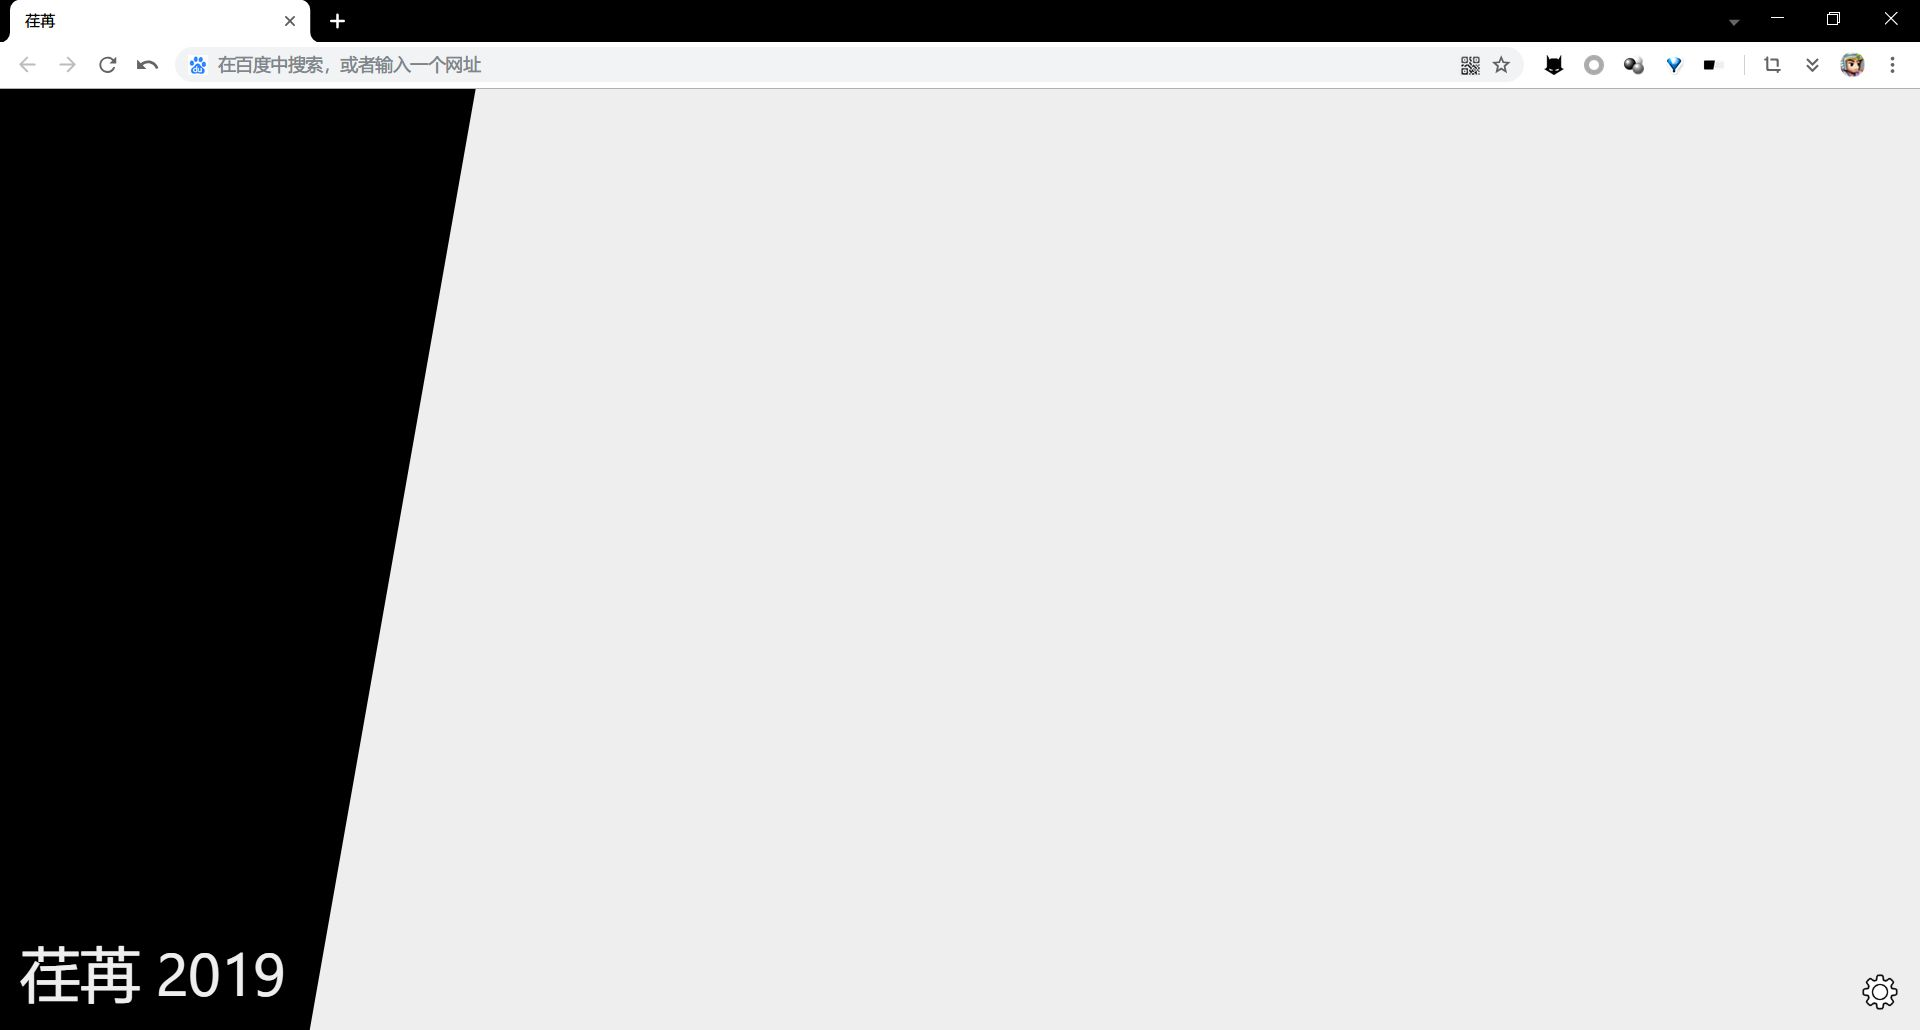
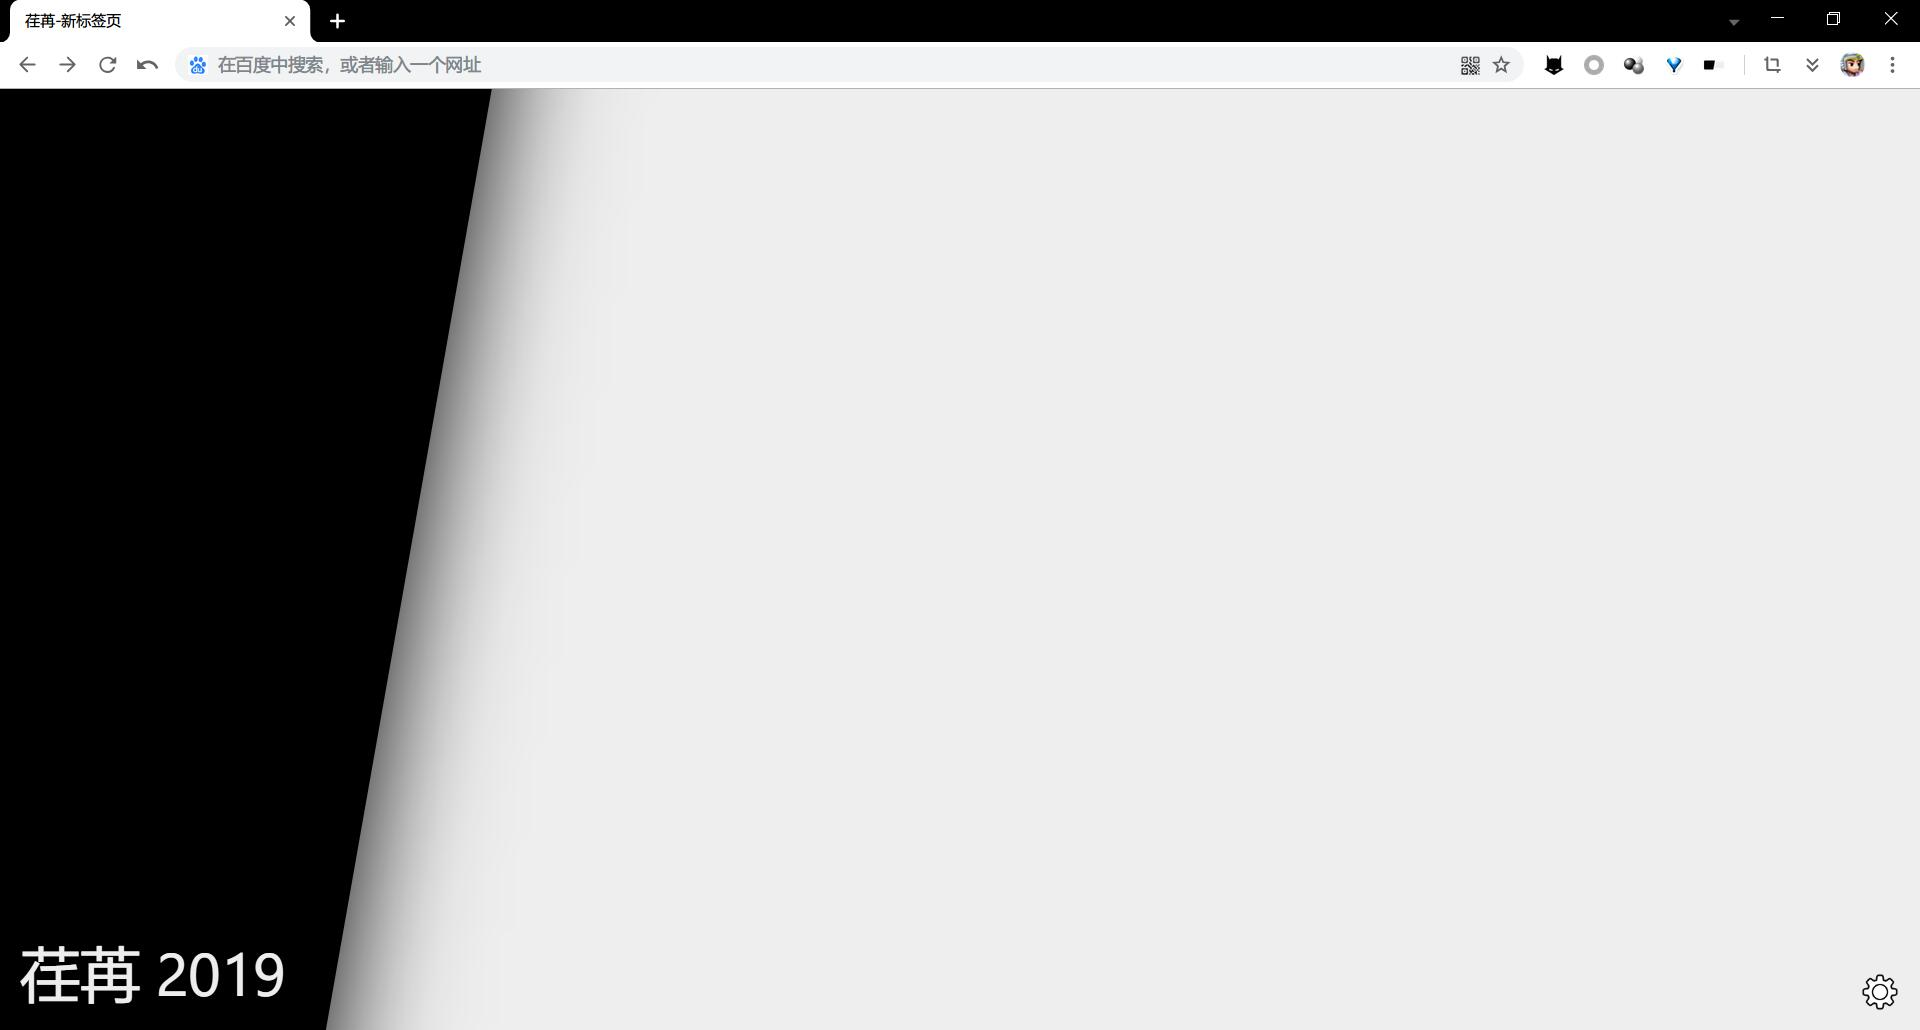
优化外观和动画效果

Changed region(s): [[0.1562, 0.0621, 0.3125, 1.0], [0.0312, 0.0, 0.0625, 0.0311]]

diff --git a/src/index.js b/src/index.js
@@ -119,27 +119,33 @@ function refreshColors(){
     var bgColor = Settings.bgColor;
     var fgColor = Settings.fgColor;
     if(bgColor){
-        $('.progress-ctn').style['background-color'] = bgColor;
-        $('.progress-ctn .title').style['color'] = bgColor;
-        $('.search-ctn input').style['color'] = bgColor;
-        $('.suggestions-ctn').style['color'] = bgColor;
+        Theme.changeRule('.progress-ctn', 'background-color', bgColor);
+        Theme.changeRule('.progress-ctn .title', 'color', bgColor);
+        Theme.changeRule('.search-ctn input', 'color', bgColor);
+        Theme.changeRule('.suggestions-ctn', 'color', bgColor);
+        Theme.changeRule('.percents', 'color', bgColor);
     }
     if(fgColor){
-        $('.progress-ctn .past').style['background-color'] = fgColor;
-        $('.clear-text').style['text-shadow'] = '2px 0 2px ' + fgColor + ',0 2px 2px ' + fgColor + ',-2px 0 2px ' + fgColor + ',0 -2px 2px ' + fgColor;
+        Theme.changeRule('.progress-ctn .past', 'background-color', fgColor);
+        Theme.changeRule('.progress-ctn .past', 'box-shadow', '0 0rem 10rem ' + fgColor);
+        Theme.changeRule('.clear-text', 'text-shadow', '2px 0 2px ' + fgColor + ',0 2px 2px ' + fgColor + ',-2px 0 2px ' + fgColor + ',0 -2px 2px ' + fgColor);
     }
     if(bgColor && fgColor){
-        $('.clear-box-shadow').style['box-shadow'] = '2px 2px 1rem ' + fgColor + ', -2px -2px 1rem ' + bgColor;
+        Theme.changeRule('.clear-box-shadow', 'box-shadow', '2px 2px 1rem ' + fgColor + ', -2px -2px 1rem ' + bgColor);
     }
 }
 
-//高光动画
+//高光和百分比动画
 function initLight(){
     $('.progress-ctn .past').onmouseover = function(){
         $('.progress-ctn .light').classList.add('ani');
+        $('.progress-ctn .percents').classList.remove('fadeout');
+        $('.progress-ctn .percents').classList.add('fadein');
     };
     $('.progress-ctn .past').onmouseout = function(){
         $('.progress-ctn .light').classList.remove('ani');
+        $('.progress-ctn .percents').classList.remove('fadein');
+        $('.progress-ctn .percents').classList.add('fadeout');
     };
 }
 
@@ -304,6 +310,9 @@ function setProgress(past, total){
     var pastPercent = (past / total * 1000) / 10;
     var past = $('.progress-ctn .past');
     aniToPast(pastPercent);
+    var percentSpan = $('.percents');
+    percentSpan.style.left = pastPercent + '%';
+    percentSpan.innerHTML = (Math.round(pastPercent * 10) / 10) + '%';
     if(pastPercent > 90){
         past.style.transform = 'rotate(' + (100 - pastPercent) + 'deg)';
     }else{

diff --git a/src/index.css b/src/index.css
@@ -21,6 +21,8 @@ body {
     position: absolute;
     top: -200%;
     left: 0;
+    box-shadow: 0 0rem 10rem black;
+    overflow: hidden;
 }
 
 .light {
@@ -45,16 +47,28 @@ body {
     -moz-transition-delay: 0.5s;
     -o-transition-delay: 0.5s;
     -webkit-transition-delay: 0.5s;
-    animation: fadin-and-out 0.8s;
-    animation-delay: 0.5s;
-    animation-fill-mode: forwards;
 }
 
-@keyframes fadin-and-out {
-    0%  {opacity: 0}
-    10% {opacity: 90}
-    70% {opacity: 100}
-    100% {opacity: 0}
+.percents {
+    position: absolute;
+    left: 0;
+    top: 46%;
+    color: white;
+    margin-left: -2.5rem;
+    font-size: 1.5rem;
+    opacity: 0;
+}
+
+.percents.fadein {
+    -webkit-transition: 6s ease-out;
+    transition: 6s ease-out;
+    opacity: 100;
+}
+
+.percents.fadeout {
+    -webkit-transition: 3s ease-in;
+    transition: 3s ease-in;
+    opacity: 0;
 }
 
 .progress-ctn .title {

diff --git a/src/theme.js b/src/theme.js
@@ -1,0 +1,23 @@
+var Theme = {
+    cssRulesMap: {},
+    loadCssRules: function(){
+        var cssSheets = document.styleSheets;
+        for(var i = 0; i < cssSheets.length; i++){
+            var cssSheet = document.styleSheets[i];
+            if(!cssSheet.disabled){
+                var cssRules = cssSheet.cssRules;
+                for(var j = 0; j < cssRules.length; j++){
+                    Theme.cssRulesMap[cssRules[j].selectorText] = cssRules[j];
+                }
+            }
+        }
+    },
+    changeRule: function(selector, style, newValue){
+        var cssRule = Theme.cssRulesMap[selector];
+        if(cssRule){
+            cssRule.style[style] = newValue;
+        }
+    }
+};
+
+Theme.loadCssRules();

diff --git a/src/index.html b/src/index.html
@@ -18,6 +18,7 @@
         <div class="past">
             <div class="light"></div>
         </div>
+        <span class="percents clear-text"></span>
         <div class="title">
             <span class="clear-text" contenteditable="true"></span>
         </div>
@@ -53,6 +54,7 @@
     </div>
 
     <script src="network.js"></script>
+    <script src="theme.js"></script>
     <script src="index.js"></script>
 
 </body>
